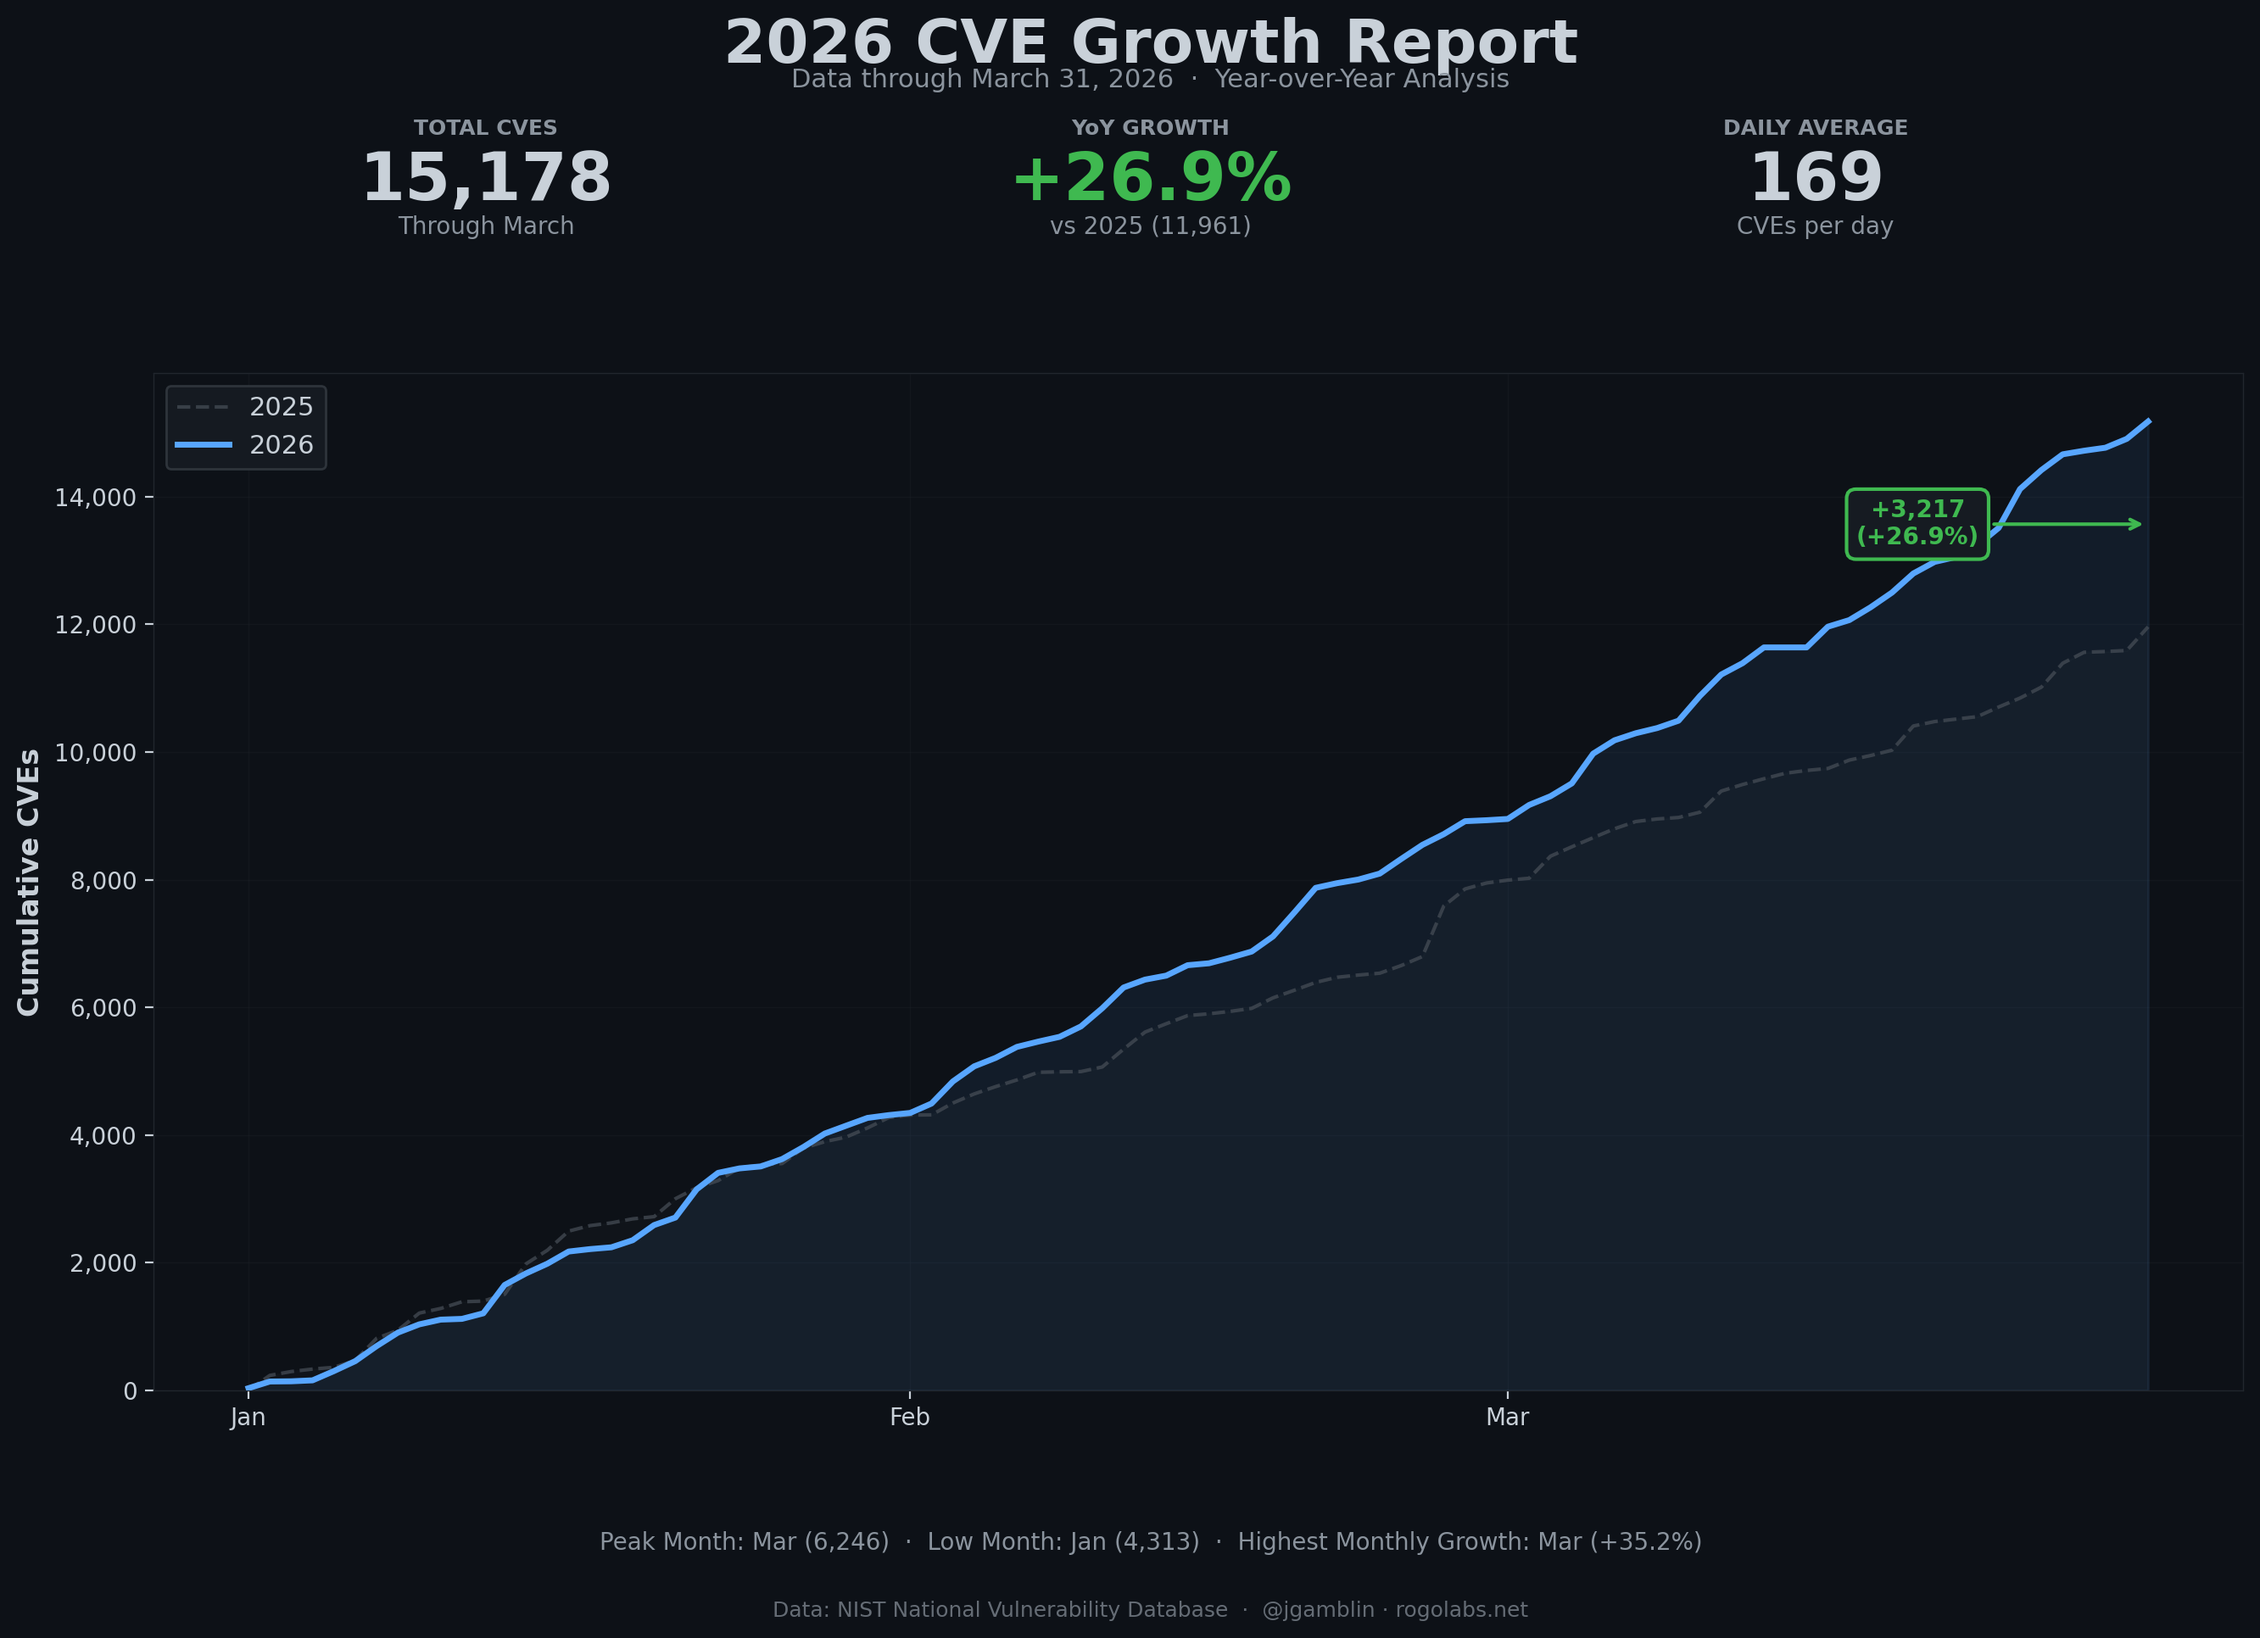
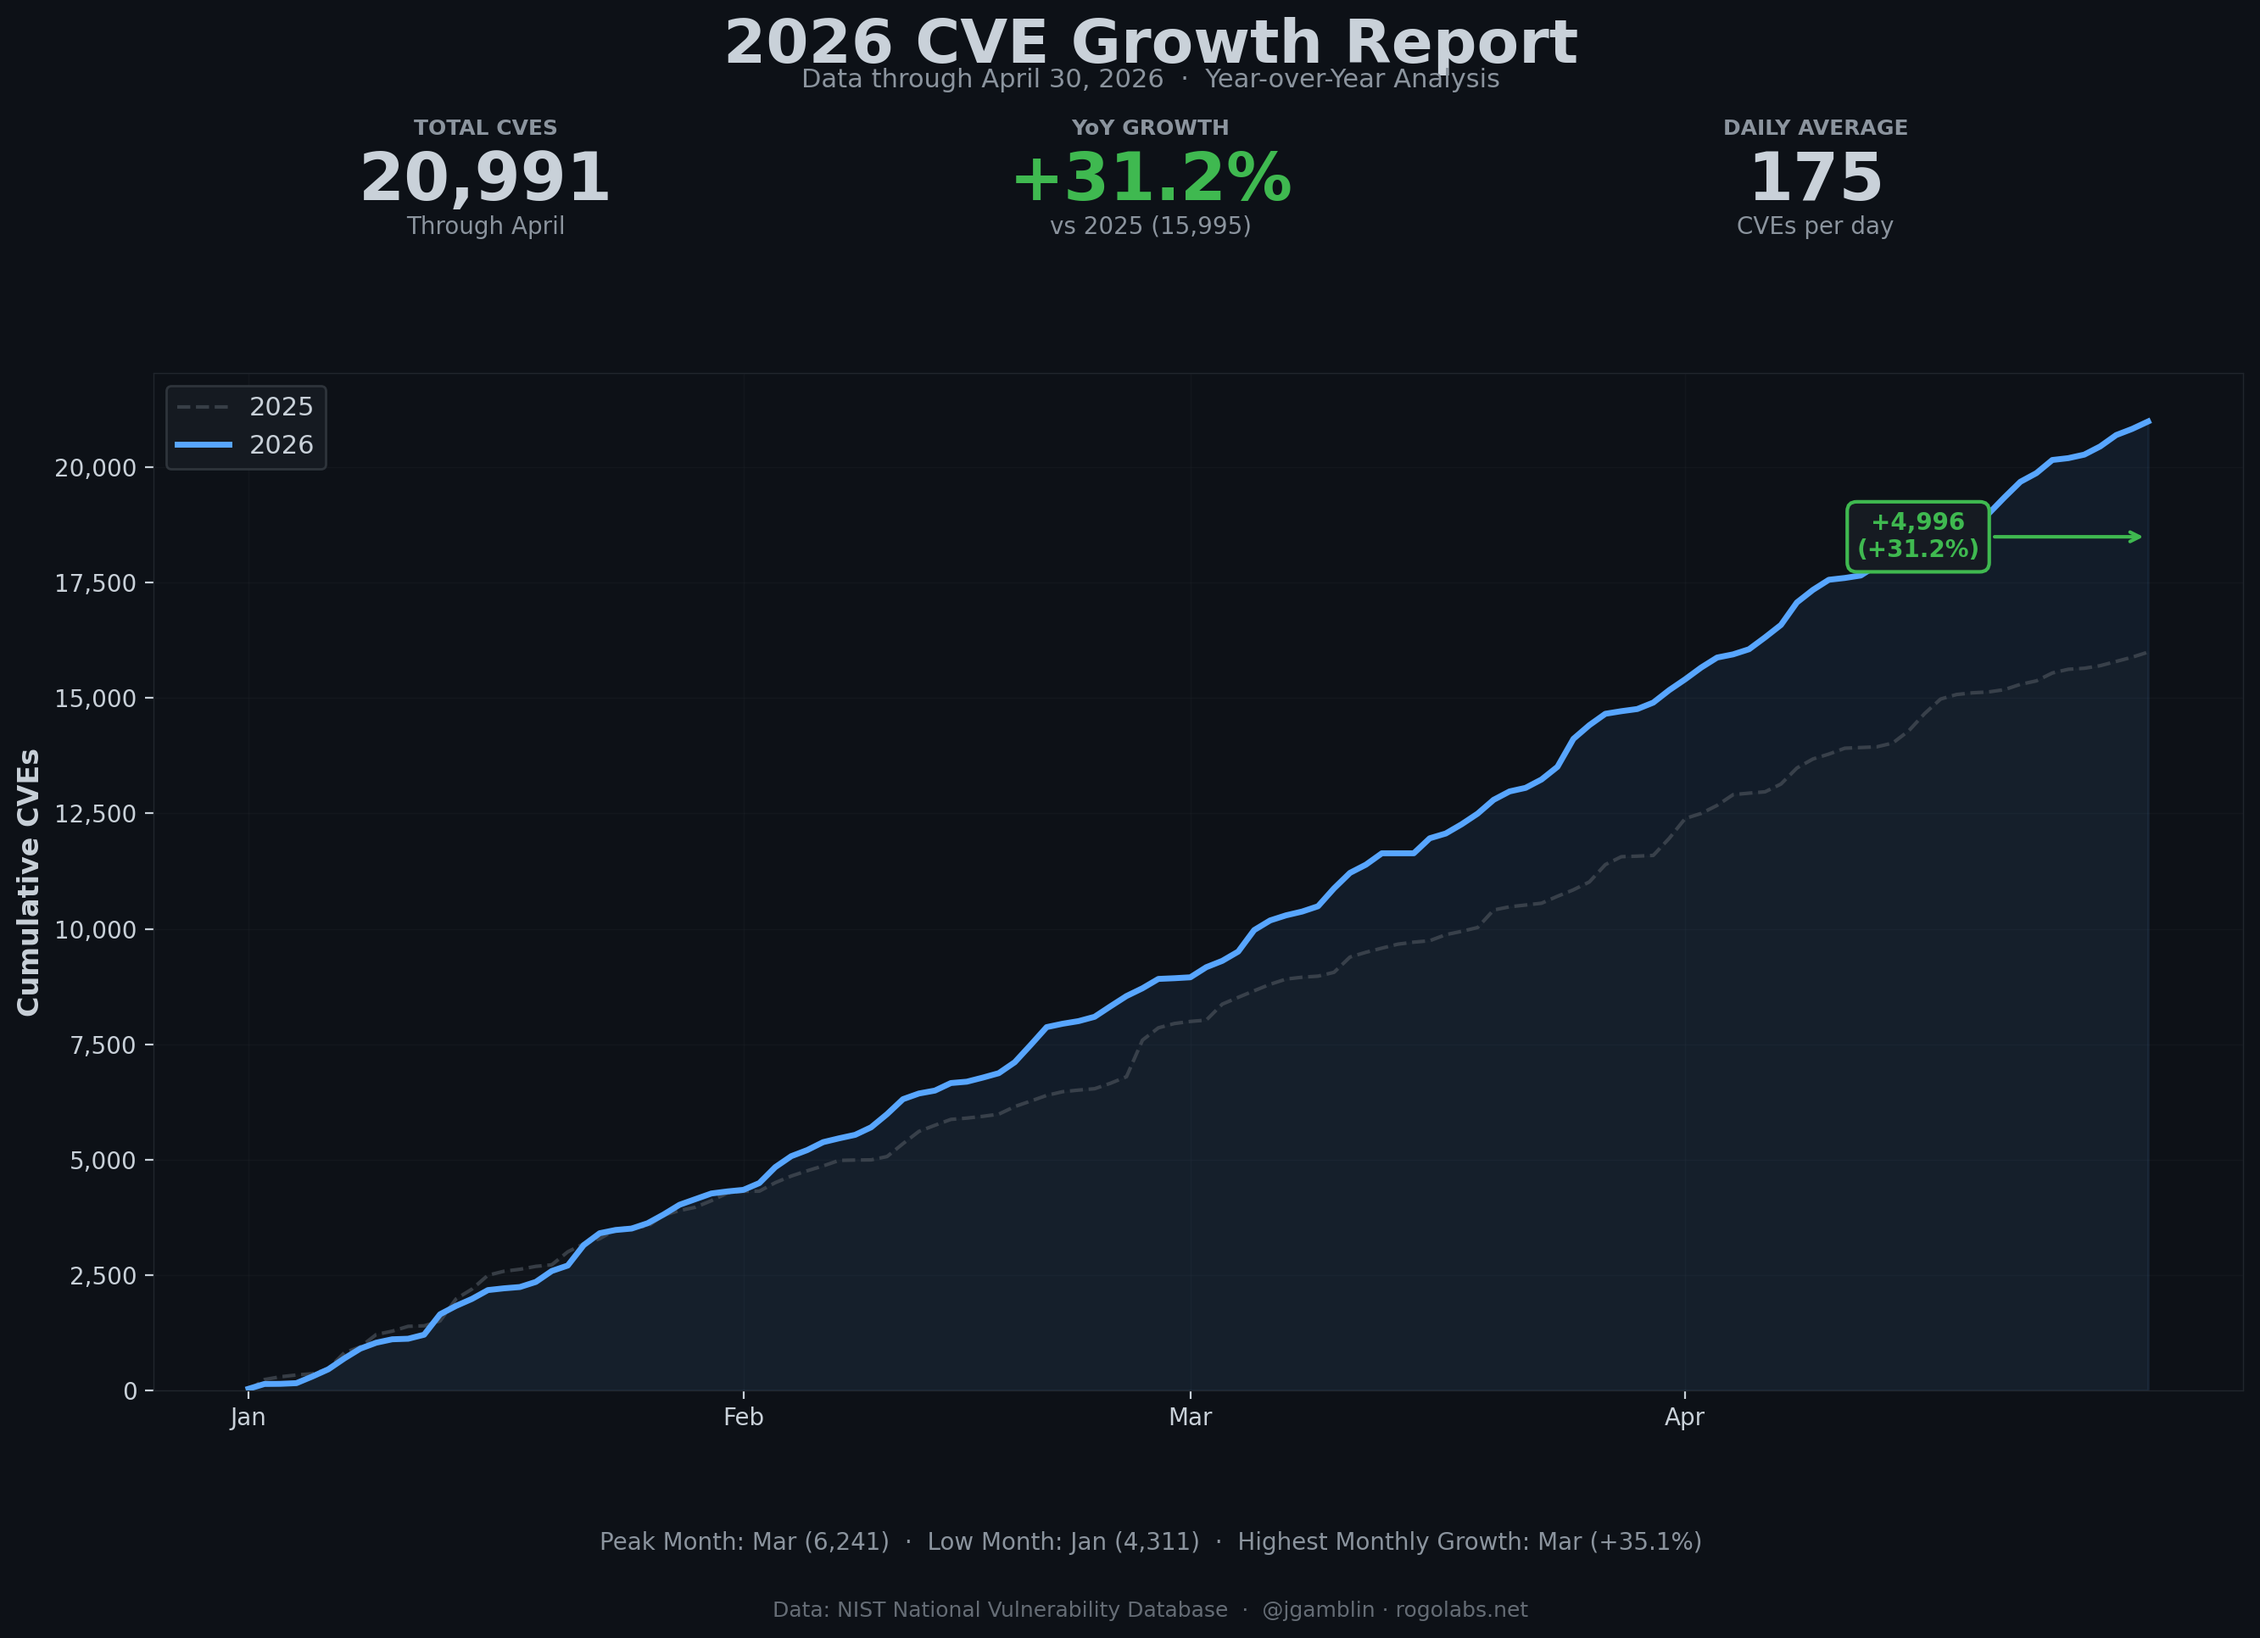
Monthly CVE Update - 2026-05-01
April 2026: 5,820 CVEs (+44.3% YoY), YTD 20,991 (+31.2% vs 2025).
Fix readme_updater to use regex matching instead of one-time placeholders.

diff --git a/src/utils/readme_updater.py b/src/utils/readme_updater.py
@@ -7,6 +7,7 @@ data from the most recent monthly report.
 
 import calendar
 import json
+import re
 from pathlib import Path
 from datetime import datetime
 
@@ -99,10 +100,9 @@ def extract_stats(report: dict) -> dict | None:
         # Handle nested "data" structure
         data = report.get("data", report)
         summary = data.get("Summary", {})
-        cvss_stats = data.get("CVSS Statistics", {})
+        cvss_stats = data.get("CVSS Statistics") or data.get("cvss") or {}
 
         total_cves = summary.get("Total CVEs", 0)
-        # Use "mean" field for average CVSS (it's the mean average)
         avg_cvss = cvss_stats.get("mean", 0) if cvss_stats else 0
 
         # Calculate average CVEs per day using actual days in the report month
@@ -129,13 +129,10 @@ def extract_stats(report: dict) -> dict | None:
 
 def update_readme_file(readme_path: Path, stats: dict) -> None:
     """
-    Update placeholders in README.md with actual statistics.
+    Update statistics in README.md with actual values.
 
-    Replaces:
-    - LAST_UPDATE_DATE with the report date
-    - TOTAL_CVES with the total count
-    - AVG_CVES_PER_DAY with the average
-    - AVG_CVSS_SCORE with the average CVSS
+    Uses regex to find and replace existing values in the badge and stats table
+    so the updater works on subsequent runs (not just the first placeholder run).
 
     Args:
         readme_path: Path to README.md
@@ -143,10 +140,30 @@ def update_readme_file(readme_path: Path, stats: dict) -> None:
     """
     content = readme_path.read_text()
 
-    # Replace placeholders
-    content = content.replace("LAST_UPDATE_DATE", stats["update_date"])
-    content = content.replace("TOTAL_CVES", stats["total_cves"])
-    content = content.replace("AVG_CVES_PER_DAY", stats["avg_cves_per_day"])
-    content = content.replace("AVG_CVSS_SCORE", stats["avg_cvss_score"])
+    content = re.sub(
+        r"(Data%20Updated-)[^)]+(-blue)",
+        rf"\g<1>{stats['update_date']}\2",
+        content,
+    )
+    content = re.sub(
+        r"(Current Statistics \()[^)]+(\))",
+        rf"\g<1>{stats['update_date']}\2",
+        content,
+    )
+    content = re.sub(
+        r"(\*\*Total CVEs\*\* \| )\S+",
+        rf"\g<1>{stats['total_cves']}",
+        content,
+    )
+    content = re.sub(
+        r"(\*\*Average CVEs/Day\*\* \| )\S+",
+        rf"\g<1>{stats['avg_cves_per_day']}",
+        content,
+    )
+    content = re.sub(
+        r"(\*\*Average CVSS Score\*\* \| )\S+",
+        rf"\g<1>{stats['avg_cvss_score']}",
+        content,
+    )
 
     readme_path.write_text(content)

diff --git a/README.md b/README.md
@@ -1,6 +1,6 @@
 # 📊 Monthly CVE Statistics
 
-[![Data Updated](https://img.shields.io/badge/Data%20Updated-March 29, 2026-blue)](https://nvd.nist.gov/)
+[![Data Updated](https://img.shields.io/badge/Data%20Updated-May 01, 2026-blue)](https://nvd.nist.gov/)
 [![License](https://img.shields.io/badge/License-MIT-green.svg)](LICENSE)
 [![NVD](https://img.shields.io/badge/Source-NVD-orange)](https://nvd.nist.gov/)
 [![Python](https://img.shields.io/badge/Python-3.10+-blue)](https://www.python.org/)
@@ -14,13 +14,13 @@ Reports are **generated automatically on the 1st of each month at 7:00 AM Centra
 
 ---
 
-## 🔥 Current Statistics (March 29, 2026)
+## 🔥 Current Statistics (May 01, 2026)
 
 | Metric | Value |
 |--------|-------|
-| **Total CVEs** | 4,415 |
-| **Average CVEs/Day** | 147.17 |
-| **Average CVSS Score** | 6.57 |
+| **Total CVEs** | 5,820 |
+| **Average CVEs/Day** | 194.00 |
+| **Average CVSS Score** | 6.80 |
 
 > **Note:** Statistics are automatically updated every month. See [latest reports](outputs/) for detailed analysis.
 

diff --git a/outputs/2026/April/April.md b/outputs/2026/April/April.md
@@ -1,0 +1,38 @@
+# CVE Report - April 2026
+
+**Generated:** 2026-05-01 07:48:49
+
+## Summary
+
+- **Month**: April
+- **Year**: 2026
+- **Total CVEs**: 5820
+- **Generated**: 2026-05-01 07:48:49
+
+## cvss
+
+- **mean**: 6.800562817719681
+- **median**: 7.0
+- **std_dev**: 1.7373062024231247
+- **min**: 0.0
+- **max**: 10.0
+- **percentile_25**: 5.5
+- **percentile_75**: 8.0
+
+## cna
+
+
+## cwe
+
+- **top_cwes**: {'CWE-79': 588, 'CWE-22': 238, 'CWE-862': 235, 'CWE-89': 218, 'CWE-74': 207, 'CWE-918': 179, 'CWE-416': 173, 'CWE-77': 160, 'CWE-284': 148, 'CWE-119': 137}
+- **total_unique_cwes**: 326
+
+## daily
+
+
+## monthly_trend
+
+
+## growth
+
+
